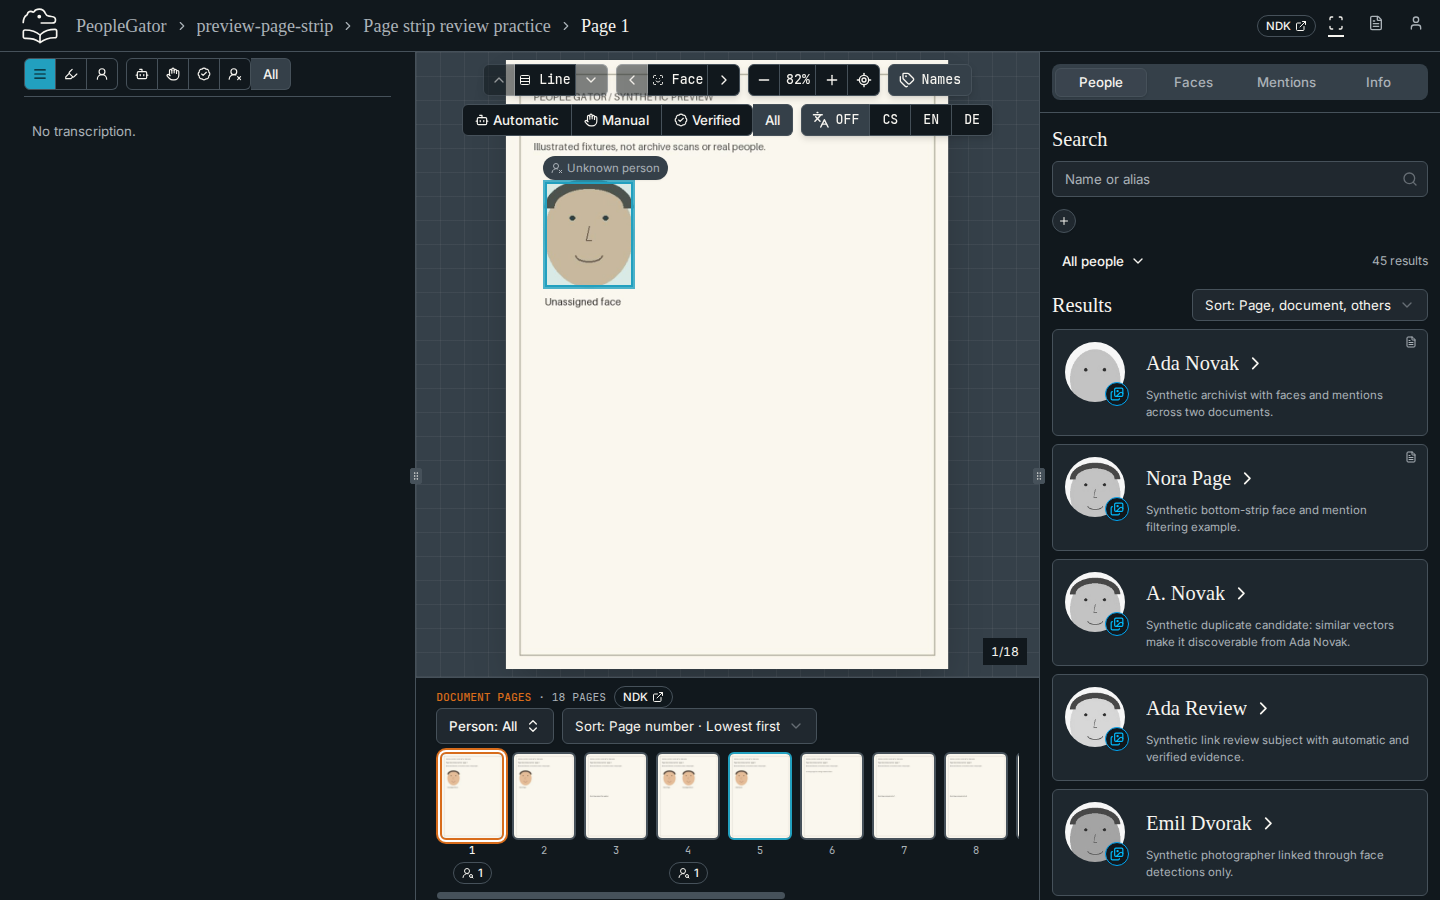
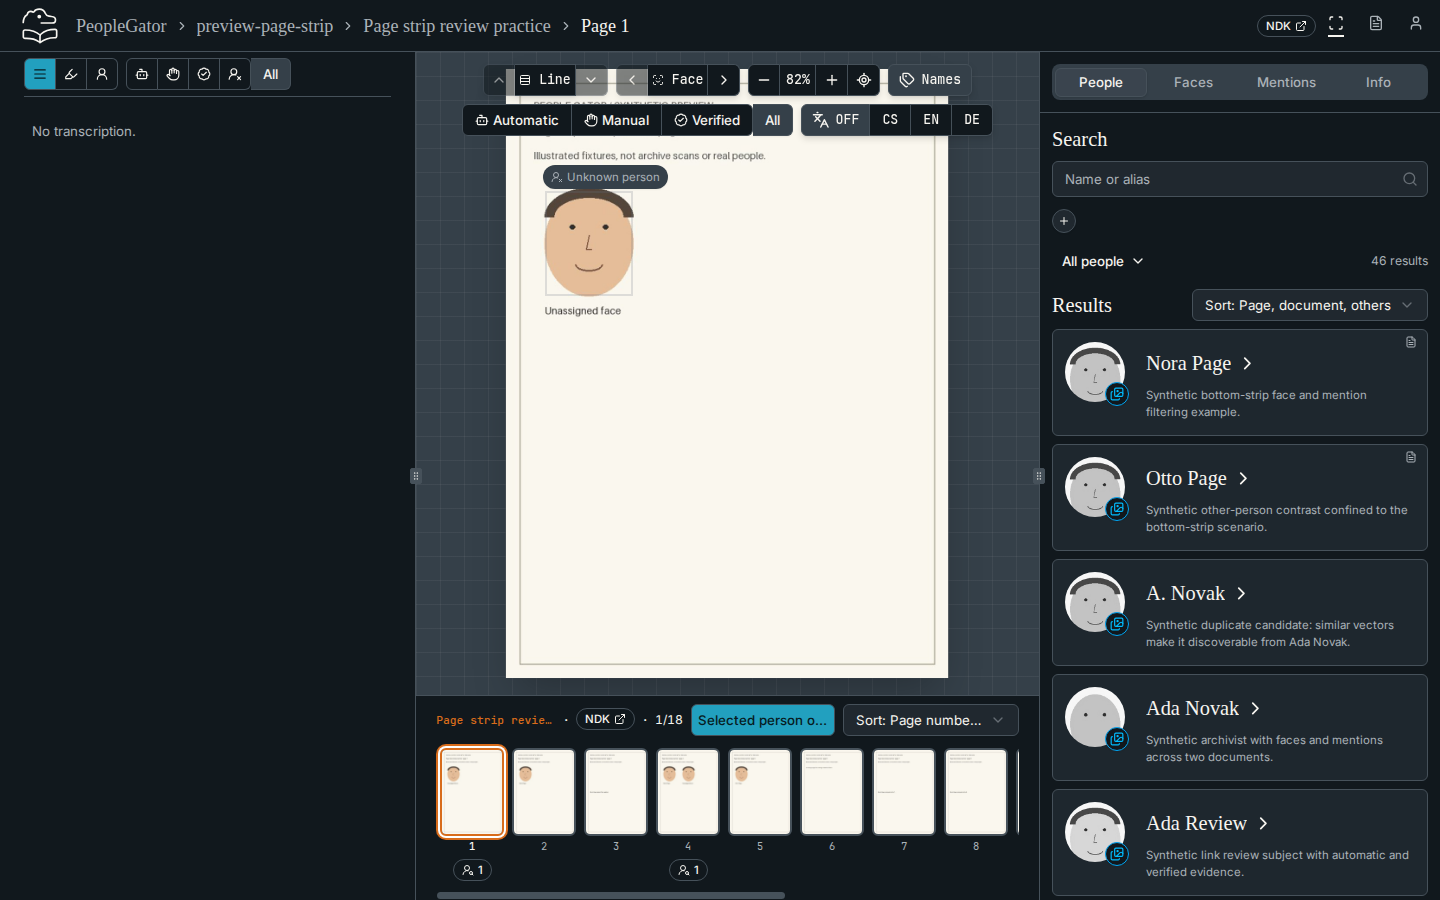
Keep page-strip height and document counts stable while filtering (#131)

diff --git a/people-gator-app/src/components/custom/DocumentPageGallery.vue b/people-gator-app/src/components/custom/DocumentPageGallery.vue
@@ -100,7 +100,7 @@ useIntersectionObserver(sentinel, ([entry]) => {
             <PagePosition
               class="shrink-0"
               :number="pageNumber"
-              :total="documentPageCount ?? totalCount"
+              :total="documentPageCount ?? (personOnly ? undefined : totalCount)"
             />
           </div>
           <div class="ml-auto flex shrink-0 flex-row flex-nowrap items-center gap-2">
@@ -137,20 +137,28 @@ useIntersectionObserver(sentinel, ([entry]) => {
           </div>
         </div>
       </div>
-      <p v-if="!props.loading && !props.error && props.totalCount === 0" role="status">
-        No matching pages.
-      </p>
       <div v-if="props.error" class="flex flex-wrap items-center gap-2 py-3" role="alert">
         <p class="text-sm text-destructive">Could not load document pages.</p>
         <Button type="button" variant="outline" size="sm" @click="emit('retry')">
           Retry pages
         </Button>
       </div>
-      <p v-else-if="!props.loading && props.totalCount === 1" class="sr-only" role="status">
+      <p
+        v-else-if="
+          !props.loading &&
+          (documentPageCount === 1 ||
+            (documentPageCount == null && !personOnly && props.totalCount === 1))
+        "
+        class="sr-only"
+        role="status"
+      >
         This document has one registered page.
       </p>
       <ScrollArea type="always" orientation="horizontal" class="w-full">
-        <ol ref="list" class="flex w-max items-start gap-2 px-1 pb-4 pt-2">
+        <ol ref="list" class="flex min-h-40 w-max min-w-full items-start gap-2 px-1 pb-4 pt-2">
+          <li v-if="!props.loading && !props.error && props.totalCount === 0" role="status">
+            No matching pages.
+          </li>
           <li v-for="item in props.items" :key="item.sourceId" class="w-14 shrink-0 sm:w-16">
             <RouterLink
               :to="props.location(item)"
@@ -187,15 +195,17 @@ useIntersectionObserver(sentinel, ([entry]) => {
               >
                 {{ item.label }}
               </span>
-              <Badge
-                v-if="item.unassignedFaces"
-                variant="outline"
-                :title="`${item.unassignedFaces} unassigned faces`"
-              >
-                <UserRoundSearch class="size-3" aria-hidden="true" />
-                {{ item.unassignedFaces }}
-                <span class="sr-only">unassigned faces</span>
-              </Badge>
+              <span class="flex h-6 items-center justify-center">
+                <Badge
+                  v-if="item.unassignedFaces"
+                  variant="outline"
+                  :title="`${item.unassignedFaces} unassigned faces`"
+                >
+                  <UserRoundSearch class="size-3" aria-hidden="true" />
+                  {{ item.unassignedFaces }}
+                  <span class="sr-only">unassigned faces</span>
+                </Badge>
+              </span>
             </RouterLink>
           </li>
           <li

diff --git a/people-gator-app/src/__tests__/DocumentPageGallery.spec.ts b/people-gator-app/src/__tests__/DocumentPageGallery.spec.ts
@@ -121,6 +121,9 @@ describe('DocumentPageGallery', () => {
     expect(toggle.attributes('aria-pressed')).toBe('false')
     await toggle.trigger('click')
     expect(wrapper.emitted('update:personOnly')).toEqual([[true]])
+    await wrapper.setProps({ personOnly: true, totalCount: 1 })
+    expect(wrapper.text()).toContain('4/18')
+    expect(wrapper.text()).not.toContain('This document has one registered page.')
     expect(wrapper.find('.active-filters').exists()).toBe(false)
     expect(wrapper.find('.search-filter-panel').exists()).toBe(false)
     await wrapper.setProps({ selectedPersonId: null })

diff --git a/docs/evidence/issue131/README.md b/docs/evidence/issue131/README.md
@@ -1,12 +1,11 @@
-# Issue #131 — bottom page-strip review
+# Issue #131 — compact bottom page strip
 
-Captured from the local production build of this branch, backed by a new,
-migrated PostgreSQL instance and disposable filesystem seeded twice. No external
-images, inference services or project data were used. Browser: Chromium
-156.0.8078.4 through Playwright; desktop 1440 × 900 and mobile 390 × 844 CSS pixels.
+Captured from this branch's local production build, backed by a new migrated
+PostgreSQL database and disposable filesystem seeded twice. All data/media are
+synthetic. Chromium 156.0.8078.4 via Playwright; desktop **1440 × 900**, mobile
+**390 × 844** CSS pixels.
 
-Reproduce from `people-gator-app` with the documented local instance, using the
-manifest's `page-strip-review` fixture:
+Reproduce from `people-gator-app` with the documented local instance:
 
 ```sh
 PAGE_STRIP_ORIGIN=http://127.0.0.1:5132 node scripts/check-page-strip.mjs
@@ -14,26 +13,37 @@ PAGE_STRIP_ORIGIN=http://127.0.0.1:5132 node scripts/check-page-strip.mjs
 
 | State | Desktop | Mobile |
 | --- | --- | --- |
-| All 18 pages; pages 1 and 4 marked | [Capture](desktop-highlights.png) | [Capture](mobile-highlights.png) |
-| Nora Page selected; 15 face-or-mention matches | [Capture](desktop-person-filter.png) | [Expanded settings](mobile-person-filter.png), [collapsed settings](mobile-person-collapsed.png) |
-| Unknown person; empty strip and clearable tag | [Capture](desktop-empty.png) | [Capture](mobile-empty.png) |
-| All pages in dark theme | [Capture](desktop-dark.png) | [Capture](mobile-dark.png) |
+| No selected person; indicators on pages 1 and 4 | [Capture](desktop-highlights.png) | [Capture](mobile-highlights.png) |
+| Right-panel selection; Nora Page only enabled | [Capture](desktop-person-filter.png) | [Capture](mobile-person-filter.png) |
+| Long selected-person name | [Capture](desktop-long-name.png) | [Capture](mobile-long-name.png) |
+| Unknown selected person; empty results | [Capture](desktop-empty.png) | [Capture](mobile-empty.png) |
+| Dark theme | [Capture](desktop-dark.png) | [Capture](mobile-dark.png) |
 
-The browser script checks actual person search/selection, Enter to expand mobile
-settings, active tags while collapsed, mention-only page navigation, filter
-retention, reload, Back after clearing, unknown-person empty results, current
-scan retention, no horizontal page overflow and no page errors. Screenshots wait
-for thumbnails and closing animations. Backend tests cover page/library scoping,
-15 matches across two cursor batches, independent unassigned-face counts, media,
-face assignment/deletion and mention unlinking, and rerun preservation.
+The one-line header shows the orange document name, NDK link, document-wide page
+position, person-only toggle and Sort. Narrow panes scroll horizontally instead
+of wrapping; controls use shorter labels on mobile. The strip has no person
+selector, applied-filter tags or mobile expansion panel.
 
-Validation recorded for this change:
+The browser script selects Nora Page and Otto Page through the right panel,
+checks the keyboard-operated toggle and its changing scope, navigates to a
+mention-only page, reloads and uses Back after toggling off. It measures unchanged
+header height with filtering, empty results and a long name, checks stable strip
+height for assigned-only and empty results, and verifies sort changes
+and legacy URL restoration, checks current-scan
+retention and page width, and captures light/dark states. The long-name check
+renames a synthetic person through the API and restores the original name in
+`finally`. Screenshots wait for thumbnail loading and disable closing animations.
 
-- Frontend: `npm run build`; `npm run test:unit -- --run`: 76 files, 529 tests pass.
-- Seed integration: new page-strip test, rerun/edit-preservation, all three
-  interrupted-checkpoint cases, no-resurrection test and complete graph/media
-  check: seven tests pass. Existing page-gallery integration also passes.
-- Real migration → seed → seed on port 55531, separate `people_gator` development
-  and `seed_tests` disposable databases and `/tmp/people-gator-issue131-storage`.
-- Production browser script passes at both viewport sizes. No full backend suite
-  run: production API/persistence code and schemas are unchanged.
+Validation:
+
+- `npm run build` (including type checking) passed; the complete frontend unit
+  suite passed: **528 tests / 75 files**.
+- Production browser script passes at both viewport sizes.
+- Real migration → seed → seed on the isolated `compact_preview` database and
+  `/tmp/people-gator-issue131-compact-storage`; schema tests use a separate store.
+- All **94 preview-seed tests passed** against isolated migrated PostgreSQL.
+  They cover page/library scope, face-or-mention matching across
+  cursor batches, independent indicators, local thumbnails, mutations, review
+  preservation and interrupted checkpoints. CI findings concerning added library
+  options and Ada's existing gallery are covered by their regression tests; the
+  new scene now uses a dedicated second person.
